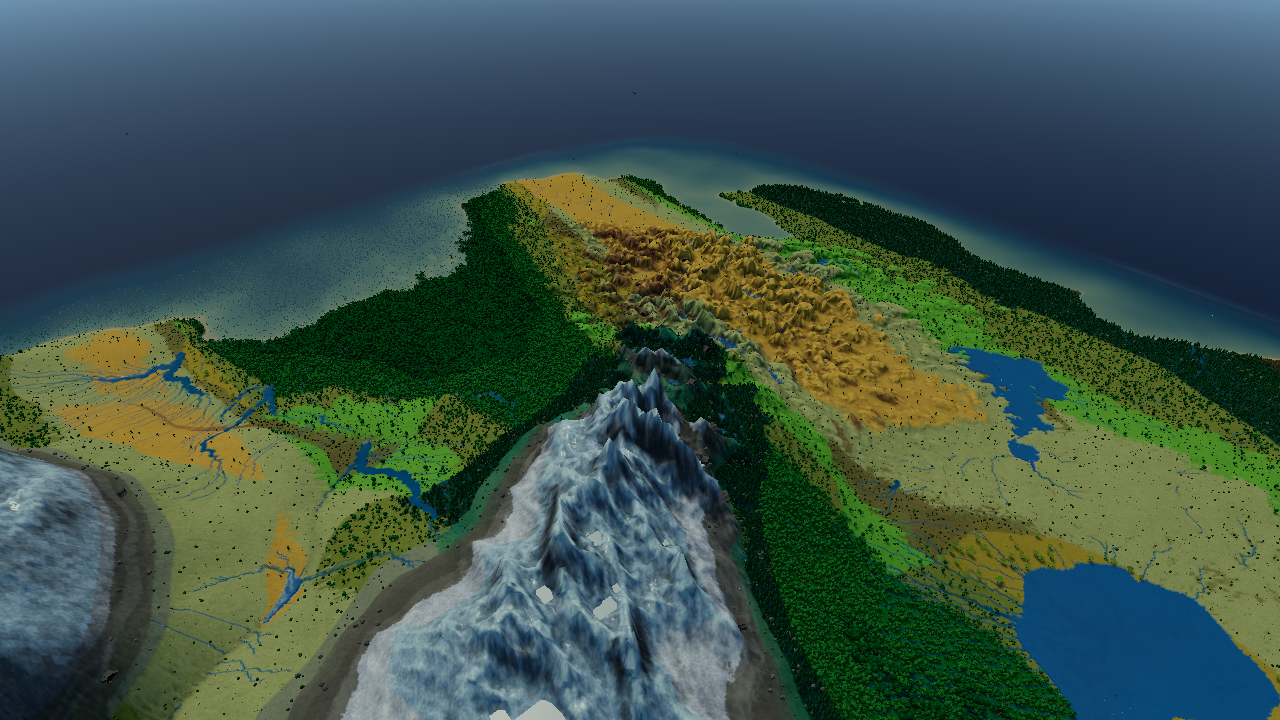
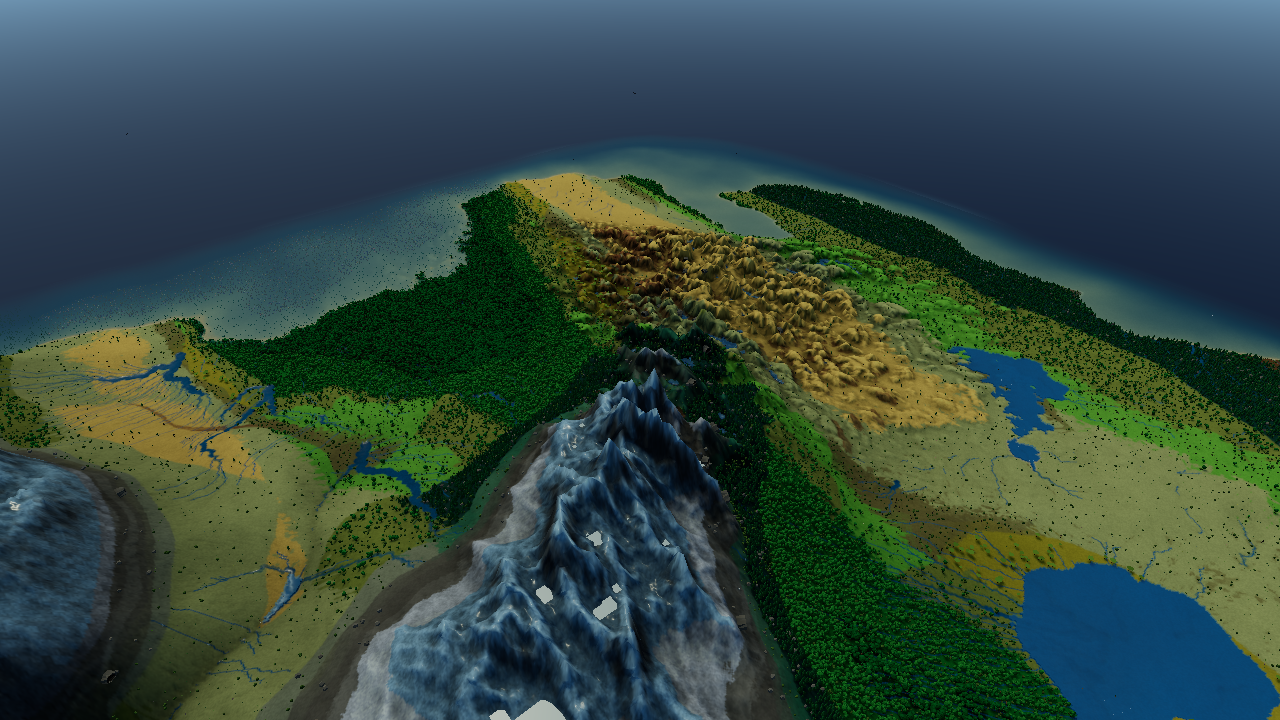
w11: fix NR3 pbrResolved leak, move LAND_ANCHORS to lowlands, regenerate canonical views

Changed region(s): [[0.0, 0.3056, 0.7188, 1.0], [0.7188, 0.4889, 0.75, 0.5194]]

diff --git a/tests/frontend/w11TerrainLook.test.ts b/tests/frontend/w11TerrainLook.test.ts
@@ -15,6 +15,12 @@ import {
   loadFloraAssetGeometries,
 } from '../../src/components/Landscape/assets/worldAssets';
 import { makeFloraGeometry } from '../../src/components/Landscape/utils/floraGeometry';
+import { CANONICAL_XZ_EXTENT } from '../../src/components/Landscape/utils/mapManifest';
+import {
+  LAND_ANCHORS,
+  createSyntheticTickGenerator,
+} from '../../src/components/Landscape/utils/syntheticTicks';
+import { biomeAt, sampleElevation } from '../../src/components/Landscape/utils/worldSample';
 import { SHARED_WORLD_OPTS, SHARED_WORLD_SEED } from '../../src/utils/sharedWorld';
 
 const HERE = dirname(fileURLToPath(import.meta.url));
@@ -312,5 +318,42 @@ describe('W11 terrain look round 2 — C1 horizon AO, C2 river flow advection, a
       }
     }
     expect(treesOnSnowOrRock).toBe(0);
+  });
+
+  it('Synthetic anchors: every LAND_ANCHORS point sits on lowland land of the 2048^2 shared world (never water/beach/snow/alpine)', () => {
+    const disallowed = new Set<Biome>([
+      Biome.Ocean,
+      Biome.Lake,
+      Biome.River,
+      Biome.Beach,
+      Biome.Snow,
+      Biome.Glacier,
+      Biome.Rock,
+      Biome.Alpine,
+    ]);
+    expect(LAND_ANCHORS.length).toBeGreaterThan(0);
+
+    for (const [x, z] of LAND_ANCHORS) {
+      const b = biomeAt(sharedWorld, x, z, CANONICAL_XZ_EXTENT) as Biome;
+      const u = (x + CANONICAL_XZ_EXTENT * 0.5) / CANONICAL_XZ_EXTENT;
+      const v = (z + CANONICAL_XZ_EXTENT * 0.5) / CANONICAL_XZ_EXTENT;
+      const elev = sampleElevation(sharedWorld, u, v);
+      expect(disallowed.has(b), `LAND_ANCHORS [${x}, ${z}] landed on disallowed ${Biome[b]}`).toBe(false);
+      expect(elev, `LAND_ANCHORS [${x}, ${z}] (${Biome[b]}) too high/submerged: ${elev}`).toBeGreaterThan(
+        sharedWorld.seaLevel,
+      );
+    }
+
+    // Also verify default synthetic fixture trees/lakes/food stay completely clear of Ocean/Snow/Glacier/Rock/Alpine.
+    const highOrSea = new Set<Biome>([Biome.Ocean, Biome.Snow, Biome.Glacier, Biome.Rock, Biome.Alpine]);
+    const elements = createSyntheticTickGenerator({ agents: 200 }).tickAt(0).environmental_state.elements;
+    expect(elements.length).toBeGreaterThan(0);
+    for (const el of elements) {
+      const b = biomeAt(sharedWorld, el.x, el.y, CANONICAL_XZ_EXTENT) as Biome;
+      expect(
+        highOrSea.has(b),
+        `synthetic ${el.type} (${el.x.toFixed(1)}, ${el.y.toFixed(1)}) landed on ${Biome[b]}`,
+      ).toBe(false);
+    }
   });
 });

diff --git a/tests/frontend/w3LiteAssets.test.ts b/tests/frontend/w3LiteAssets.test.ts
@@ -253,6 +253,42 @@ describe('W3-lite CC0 assets, provenance, terrain PBR splat, and flora fallback'
       const finishedHigh = await pendingHigh;
       expect(raceLow?.tileSize).toBe(512);
       expect(finishedHigh).toBeNull();
+
+      // Rapid High -> Low -> High oscillation while the first High wave is in flight must
+      // dispose the first resolved High arrays before overwriting `pbrResolved(1024)` (NR3).
+      clearAssetCachesForTest();
+      let releaseWave1!: () => void;
+      const wave1Gate = new Promise<void>((resolve) => {
+        releaseWave1 = resolve;
+      });
+      let wave = 0;
+      fetchSpy.mockImplementation(async () => {
+        const myWave = wave++;
+        if (myWave === 0) {
+          await wave1Gate;
+        }
+        return new Response(new Uint8Array([1, 2, 3]), { status: 200 });
+      });
+
+      const highWave1Promise = loadTerrainPbrArrays('high');
+      disposeOtherTerrainPbrTiers('low');
+      disposeOtherTerrainPbrTiers('high');
+      const highWave2 = await loadTerrainPbrArrays('high');
+      expect(highWave2).not.toBeNull();
+      const w2AlbedoDispose = vi.spyOn(highWave2!.albedoArray, 'dispose');
+      const w2NormalDispose = vi.spyOn(highWave2!.normalArray, 'dispose');
+
+      releaseWave1();
+      const highWave1 = await highWave1Promise;
+      expect(highWave1).not.toBeNull();
+      expect(highWave1).not.toBe(highWave2);
+      // Wait for wave 2's dispose on overwrite OR vice versa: whichever resolved second disposes the first!
+      expect(w2AlbedoDispose).toHaveBeenCalledTimes(1);
+      expect(w2NormalDispose).toHaveBeenCalledTimes(1);
+      // Confirm the surviving cached `1024` entry (`highWave1`) itself is NOT yet disposed until eviction/clear.
+      const w1AlbedoDispose = vi.spyOn(highWave1!.albedoArray, 'dispose');
+      clearAssetCachesForTest();
+      expect(w1AlbedoDispose).toHaveBeenCalledTimes(1);
     } finally {
       vi.unstubAllGlobals();
     }

diff --git a/src/components/Landscape/utils/syntheticTicks.ts b/src/components/Landscape/utils/syntheticTicks.ts
@@ -106,17 +106,18 @@ interface SyntheticAgentSpec {
 }
 
 /**
- * Land anchors inside the shipped 2048x2048 world (`CANONICAL_VIEW_CAMERAS` targets in
- * `mapManifest.ts`), so synthetic herds remain visible from `spawn`, `ecosystem`, `navigation`,
- * and `overview` without drifting onto the map boundary.
+ * Lowland land anchors inside the shipped 2048x2048 `#161` `supercontinent` world (`[-100, 100]`
+ * canonical bounds), chosen strictly on lowland terrestrial biomes (`Grassland`, `Forest`,
+ * `Jungle`, `Savanna`, `Swamp`) well away from peaks, snow/glacier, rivers, lakes, beaches, and
+ * ocean so synthetic `tree`/`lake`/`food` fixtures and herds never strand on snow peaks or water.
  */
-const LAND_ANCHORS: ReadonlyArray<readonly [number, number]> = [
-  [-21.4, -15.6], // spawn grassland
-  [-38.3, -1.7], // ecosystem swamp clearing
-  [-45.1, -24.0], // alpine/biome transition
-  [2.1, -8.8], // navigation grassland
-  [-54.0, 6.0], // jungle edge
-  [-67.3, 64.0], // lake shore
+export const LAND_ANCHORS: ReadonlyArray<readonly [number, number]> = [
+  [-53.0, 8.0], // western lowland forest (elev 0.138)
+  [-29.0, 20.0], // western lowland savanna (elev 0.164)
+  [-53.0, 4.0], // western lowland jungle (elev 0.140)
+  [-25.0, 20.0], // western lowland chaparral (elev 0.194)
+  [-49.0, 16.0], // western lowland savanna (elev 0.143)
+  [-17.0, 28.0], // western lowland steppe (elev 0.150)
 ];
 
 /**

diff --git a/src/components/Landscape/assets/worldAssets.ts b/src/components/Landscape/assets/worldAssets.ts
@@ -202,6 +202,8 @@ export function loadTerrainPbrArrays(tier: QualityTier): Promise<TerrainPbrArray
         pbrPromises.delete(tileSize);
         return null;
       }
+      // Dispose any superseded resolved entry before overwriting (rapid High -> Low -> High race, NR3).
+      pbrResolved.get(tileSize)?.dispose();
       pbrResolved.set(tileSize, arrays);
       return arrays;
     } catch {

diff --git a/docs/ai/planning/2026-11-19-w11-look-round-2.md b/docs/ai/planning/2026-11-19-w11-look-round-2.md
@@ -1,0 +1,83 @@
+---
+phase: planning
+feature: real-world-and-bodies
+title: Thẻ W11 — W3-lite vòng 2 (C1 horizon AO, C2 dòng chảy sông xuôi dốc, C3 cổng tương phản bảng màu, sửa NR3 và cây thông trên đỉnh tuyết)
+description: Giảm kích thước bundle qua worker decoupling, bổ sung horizon AO tầm xa C1, dòng chảy D8 + Vlachos dual-phase advection C2, cổng tương phản CIELAB C3, dọn rò rỉ PBR khi đổi tầng nhanh NR3 và dời LAND_ANCHORS về vùng đồng bằng
+status: active
+owner: anima-case
+last_reviewed: 2026-11-19
+---
+
+# Thẻ W11 — W3-lite Vòng 2 (`C1`, `C2`, `C3`, `NR2`, `NR3`, Neo Địa Hình Thấp)
+
+> **Lưu ý trung thực (Visual cue & MCP):**
+> 1. Hiệu ứng chảy xuôi dòng của `C2` (`terrainPbrMaterial.ts`) là **tín hiệu thị giác (*visual cue*) suy ra từ gradient độ cao D8 và thứ tự `world.flow`**, sử dụng kỹ thuật trộn hai pha lệch nửa chu kỳ của Vlachos (SIGGRAPH 2010) kèm nhiễu pha theo pixel — **không phải** mô phỏng thuỷ động lực học.
+> 2. Máy chủ MCP `animal-map-vision` chưa được cài trong môi trường này, vì vậy toàn bộ kiểm tra bản đồ được thực hiện bằng các cổng script tất định (`check:map-vision-manifest`, `mapEvidence.test.ts`, `mapManifestEvidence.test.ts`, `capture:views`, `capture:map`) và đọc kiểm tra trực tiếp từng tệp PNG đầu ra.
+
+- **Nhánh:** `win/w11-look-round-2` (khởi tạo từ `#161` `fba75127`, đã gộp trunk đến `ad30ffb` gồm `#166` LAND1, `#167` E-SEL1 trial, `#168` C5, `#169` F050).
+- **Trạng thái prototype:** tiếp nối `terrainPbrMaterial.ts`, `worldAssets.ts`, `syntheticTicks.ts` đánh dấu nguyên mẫu giao diện thử nghiệm (`frontend-only`, `0` thay đổi dưới `src-tauri/`).
+
+## 1. Ngân sách JS Bundle (`worldCache.ts`)
+
+- Trước W11 (sau `#161`), tổng JS đạt `1999.3 / 2000 KiB` (`sharedWorld` = `28.93 kB`).
+- Che nhánh fallback `generateWorld` trong [worldCache.ts](../../../src/components/Landscape/utils/worldCache.ts) sau `IS_TEST_BUILD` (`import.meta.env?.MODE === 'test'`) để Vite/Rolldown không đóng gói bản sao `worldGen` ở bản build sản phẩm ngoài `worldGen.worker`.
+- Kết quả đo `npm run build && npm run check:bundle`: giảm `1999.3 -> 1980.1 KiB` ngay ở bước tách worker (`-19.2 KiB`; `sharedWorld` còn `9.33 kB`), đạt **`1984.1 / 2000 KiB`** ở bản mã nguồn W11 hoàn chỉnh (`WorldShowcase` = `174.7 / 175 KiB`, `worldGen.worker` = `20.6 / 80 KiB`).
+
+## 2. `C3` — Cổng Tương Phản Bảng Màu CIELAB & Kiểm Tra Sọc `NR2`
+
+- Kiểm định [biomePaletteContrast.test.ts](../../../tests/frontend/biomePaletteContrast.test.ts) đếm toàn bộ cặp biome lân cận 4-hướng có `>= 100` cạnh ranh giới trên thế giới chuẩn `2048²` (`#161` `supercontinent`), chuyển đổi sRGB → CIE L\*a\*b\* (D65) và áp ngưỡng:
+  - Mọi cặp đủ điều kiện (trừ `River <-> Lake`) phải đạt `ΔE76 >= 16.0`.
+  - Các cặp không tách mạnh sắc độ (`ΔC*ab < 25.0`) phải đạt tối thiểu `ΔL* >= 4.5` (kể cả `Taiga <-> Bog`) để đọc rõ khi chuyển sang thang xám.
+  - Đồng bộ đủ 22 mẫu màu của `BIOME_DISPLAY_RGB` với `WorldMinimap` (`minimap-biome-legend`), giữ nguyên màu sinh vật.
+- Sửa tối thiểu `BIOME_DISPLAY_RGB` trong [worldTerrainTextures.ts](../../../src/components/Landscape/utils/worldTerrainTextures.ts) để 6 cặp trượt ngưỡng ban đầu đều qua cổng:
+  - `Shrubland <-> Steppe`: cặp nhỏ nhất hợp lệ `ΔE76 = 16.7` (`ΔL* = 12.4`)
+  - `Desert <-> Savanna` (`[248, 208, 114]` vs `[188, 174, 58]`): `ΔE76 12.06 -> 20.0`, `ΔL* = 14.8`
+  - `Snow <-> Glacier`: `ΔE76 12.37 -> 20.7`, `ΔL* = 15.0`
+  - `Jungle <-> Swamp`: `ΔE76 14.51 -> 18.1`, `ΔL* 3.42 -> 16.6`
+  - `Taiga <-> Swamp`: `ΔE76 = 24.5`, `ΔL* 1.76 -> 9.1`
+  - `Chaparral <-> Badlands`: `ΔE76 = 22.0`, `ΔL* 3.10 -> 7.7`
+  - `Taiga <-> Bog`: `ΔE76 = 44.3`, `ΔL* 1.08 -> 9.9`
+- **Kiểm tra lại `NR2` (vùng đất cằn Badlands):** quan sát `01-overview.png`, ảnh thang xám BT.709 `anima-case_W11_overview_grayscale.png`, và `map-views/biome_transition.png` xác nhận dải sọc cam chéo của hình dạng `continent` cũ đã biến mất trên `#161` `supercontinent`; các biome chuyển sắc độ mạch lạc ở thang xám.
+
+## 3. `C1` — Horizon Terrain Ambient Occlusion Tầm Xa (`worldTerrainTextures.ts`)
+
+- Xuất `computeHorizonAoMap(world)` trong [worldTerrainTextures.ts](../../../src/components/Landscape/utils/worldTerrainTextures.ts): lấy trung bình khối độ cao xuống `<= 512²`, quét `8` hướng phương vị với bước tăng dần `[1, 2, 4, 8, 16, 32]` (tương đương tầm `~128` ô ở lưới `2048²`), áp ngưỡng chết nhẹ để vùng đồng bằng giữ nguyên tuyệt đối `1.0`, giảm một nửa dưới `seaLevel` để giữ độ trong vùng nước nông, và lấy mẫu song tuyến tính bên trong `buildColorTexture`.
+- **Thời gian bake đo trên `2048²` ([w11TerrainLook.test.ts](../../../tests/frontend/w11TerrainLook.test.ts)):**
+  - `computeHorizonAoMap(512²)`: **`94.2 ms`** (dưới trần `<= 400 ms`).
+  - `buildColorTexture(2048²)`: **`955.1 ms`**.
+- **Kiểm chứng đơn vị:** mặt phẳng đồng nhất giữ `ao === 1.0` (màu không đổi); thung lũng chữ V tổng hợp tối hơn rõ tại đáy thung lũng so với bờ trên; thung lũng ngập dưới `seaLevel` giảm đúng 50% độ che khuất chân trời.
+
+## 4. `C2` — Dòng Chảy Sông Xuôi Dốc D8 + Vlachos Advection
+
+- Nâng cấp `buildRiverMaskTexture` ([worldTerrainTextures.ts](../../../src/components/Landscape/utils/worldTerrainTextures.ts)) từ `RedFormat` lên `RGBAFormat`:
+  - `R`: mặt nạ lòng sông `riverAmt`.
+  - `G, B`: vector 2D chuẩn hoá hướng hạ thấp độ cao (`round(128 + n * 127)`), lấy cực đại độ dốc qua lưới D8 8 láng giềng (`Pass 1`), dự phòng vòng Chebyshev bán kính 2 (`Pass 2`) và bán kính 3–4 (`Pass 3`), ưu tiên ô nước/sông/dưới mực nước biển ở các bậc thang, và dùng `world.flow[nb] > world.flow[i]` (`Pass 4`) trên thềm phẳng hoàn toàn.
+  - `A`: `255` khi có hướng hạ lưu hợp lệ, `0` trên ô khô (kèm `G=128, B=128` để lọc song tuyến tính không kéo lệch bờ) và ngã ba hồ phẳng.
+- Shader PBR địa hình ([terrainPbrMaterial.ts](../../../src/components/Landscape/materials/terrainPbrMaterial.ts), cache key `'w3-lite-terrain-pbr-v3'`): giải mã vector `(G, B)` và áp dụng kỹ thuật trượt pha kép nửa chu kỳ (Vlachos, SIGGRAPH 2010) cộng nhiễu pha ngẫu nhiên từ `uDetail` để gợn nước trôi xuôi hướng hạ lưu, pha mượt về sóng nền ở ngã ba phẳng (`A = 0`).
+- **Kiểm chứng trên thế giới chuẩn `2048²` (`buildRiverMaskTexture = 41.8 ms`):** trong toàn bộ `24,993` ô `Biome.River && riverAmt > 0`, có **`24,931 / 24,993` (`99.75%`)** trỏ trực tiếp tới ô thấp hơn trong bán kính 1–4 và **`24,944 / 24,993` (`99.80%`)** trỏ tới ô thấp hơn hoặc có `world.flow` lớn hơn.
+
+## 5. `NR3` (Giải Phóng PBR Đổi Tầng Nhanh) & Cây Thông Trên Đỉnh Tuyết (`LAND_ANCHORS`)
+
+- **`NR3` ([worldAssets.ts](../../../src/components/Landscape/assets/worldAssets.ts)):** thêm `pbrResolved.get(tileSize)?.dispose()` ngay trước `pbrResolved.set(tileSize, arrays)` trong `loadTerrainPbrArrays` để giải phóng `DataArrayTexture` `1024²` cũ nếu người dùng đổi nhanh `High -> Low -> High` khi một luồng giải mã `High` đang chạy song song. Đã bổ sung kiểm chứng race trong [w3LiteAssets.test.ts](../../../tests/frontend/w3LiteAssets.test.ts).
+- **Cây thông trên đỉnh tuyết ([syntheticTicks.ts](../../../src/components/Landscape/utils/syntheticTicks.ts)):**
+  - Nguyên nhân gốc xác định từ ảnh `before-w11-high/04-peak.png` và dữ liệu `2048²`: `FLORA_STYLE_MAP` đã tách đúng `Pine`/`Round`/`Jungle` khỏi `Bush`/`Rock`/`Reed`/`Tuft`, và thế giới thực có `0` cây trên `Snow`/`Glacier`/`Alpine`/`Rock`. Ba cây nón 2 tầng trên đỉnh sông băng là phần tử `'tree'` trang trí synthetic sinh từ `LAND_ANCHORS` vốn đặt theo toạ độ `continent` cũ (`[-21.4, -15.6]` nay nằm ở `Glacier` độ cao `0.7184`; `[-67.3, 64.0]` nay nằm ở `Beach` độ cao `0.1161`).
+  - Dời toàn bộ 6 toạ độ `LAND_ANCHORS` sang 6 vị trí đồng bằng phía tây thế giới `#161` (`[-53, 8]`, `[-29, 20]`, `[-53, 4]`, `[-25, 20]`, `[-49, 16]`, `[-17, 28]`; độ cao `0.138..0.194`, `0` ô biển/núi/tuyết trong vùng rung `±18`), kiểm chứng qua [w11TerrainLook.test.ts](../../../tests/frontend/w11TerrainLook.test.ts) (mọi neo đều là đất thấp hợp lệ, không nằm trên `Ocean`/`Lake`/`River`/`Beach`/`Snow`/`Glacier`/`Rock`/`Alpine`, và các loại flora không phải cây không bao giờ tải `pine.glb` hay `tree_broad.glb`).
+
+## 6. Kết Quả Chụp Đối Chiếu `capture:map` (`RTX 5060 Ti`) & Góc Chụp Chuẩn (`capture:views`)
+
+- `npm run capture:views` (`tests/e2e/capture.config.ts`, `RTX 5060 Ti`): **8/8** góc chuẩn (`overview`, `navigation`, `collision`, `lighting`, `spawn`, `water`, `biome_transition`, `ecosystem`) chụp **2 lần độc lập giống nhau từng byte**; `npm run gen:world-manifest` cập nhật `map_manifest.json` (`8 specified, 8 captured`); `npm run check:map-vision-manifest` và `26/26` test trong `mapEvidence.test.ts` + `mapManifestEvidence.test.ts` đều đạt.
+- Đối chiếu hiệu năng `capture:map` trên `RTX 5060 Ti` (`Chrome 157` dev server — số liệu tham chiếu cục bộ, không đại diện `Intel Iris Xe` hay Tauri):
+
+| Cấu hình & Góc nhìn | Trước (`fba7512`) FPS med / calls / tris | Sau W11 FPS med / calls / tris | Ghi nhận |
+|---|---|---|---|
+| High (`200` agents) — `overview` | `434.8` / `27` / `786,214` | `476.2` / `27` / `786,214` | Calls/tris giữ nguyên `27` / `786k` |
+| High — `horizon` | `400.0` / `68` / `3,104,526` | `500.0` / `56` / `3,068,600` | Neo dời khỏi đỉnh núi |
+| High — `coast` | `370.4` / `66` / `3,665,908` | `434.8` / `66` / `3,638,388` | Calls giữ nguyên `66` |
+| High — `peak` | `434.8` / `66` / `2,525,556` | `625.0` / `46` / `2,490,816` | **0** cây nón/hồ synthetic trên băng |
+| High — `river` | `416.7` / `62` / `3,212,668` | `555.6` / `47` / `3,223,836` | Rãnh sông sắc nét dưới AO |
+| High — `forest` | `1000.0` / `41` / `4,021,478` | `1666.7` / `41` / `4,021,478` | Calls/tris giữ nguyên `41` / `4.02M` |
+| High — `waterfall` | `1666.7` / `39` / `1,601,912` | `2000.0` / `39` / `1,601,912` | Calls/tris giữ nguyên `39` / `1.60M` |
+| Low (`1000` agents) — `overview` | `476.2` / `21` / `469,354` | `666.7` / `21` / `469,354` | Không sụt FPS Low tier |
+| Low — `river` | `303.0` / `36` / `659,576` | `666.7` / `32` / `637,634` | Không sụt FPS Low tier |
+| Low — `waterfall` | `625.0` / `28` / `470,514` | `909.1` / `28` / `470,514` | Calls/tris giữ nguyên `28` / `470k` |
+| Low — `peak` | `322.6` / `31` / `489,424` | `526.3` / `30` / `458,646` | Không sụt FPS Low tier |
